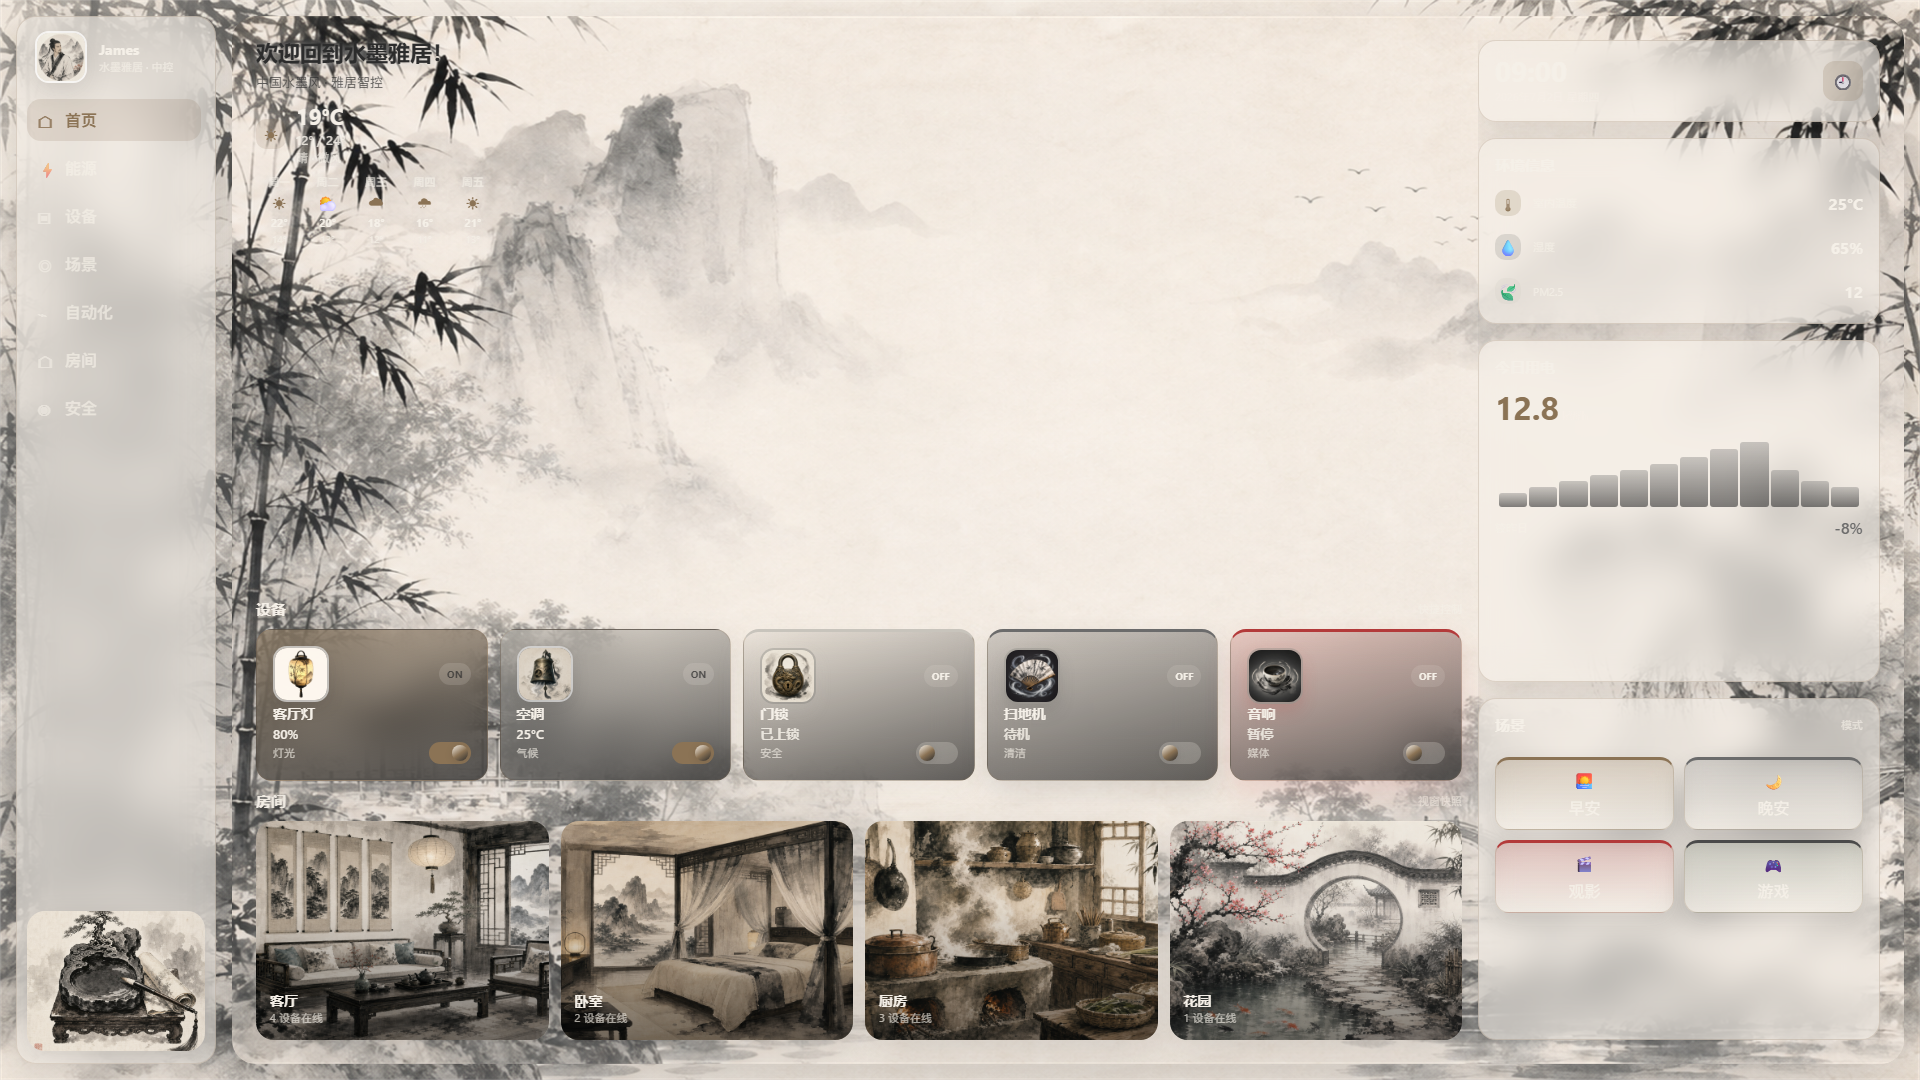
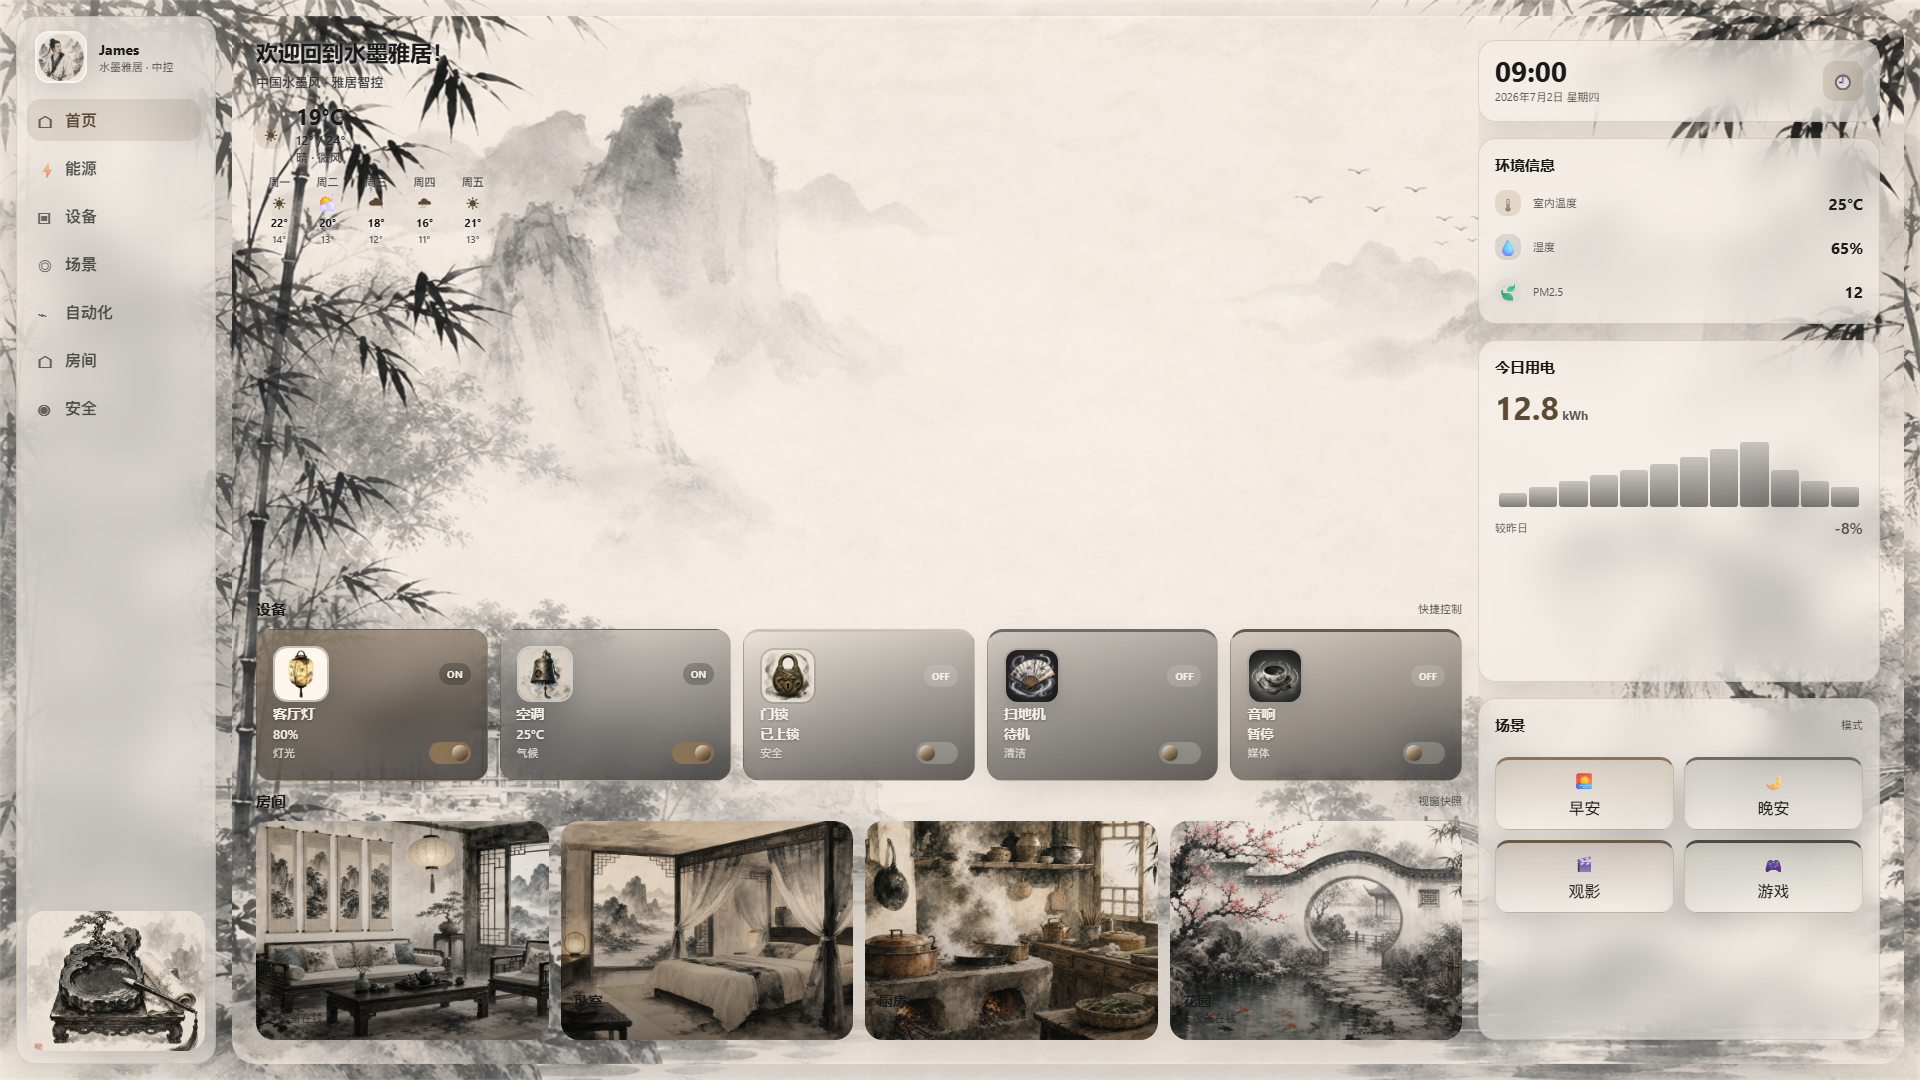
fix(skins): improve ink wash text contrast and remove red card accent

diff --git a/skins-pro/chinese-ink-wash-painting/theme.css b/skins-pro/chinese-ink-wash-painting/theme.css
@@ -14,7 +14,7 @@
   --sp-device-bg:rgba(26,26,26,.55);
   --sp-scene-morning:rgba(139,115,85,.26);
   --sp-scene-night:rgba(107,107,107,.24);
-  --sp-scene-movie:rgba(179,58,58,.20);
+  --sp-scene-movie:rgba(107,90,72,.22);
   --sp-scene-game:rgba(92,107,88,.22);
   --sp-item-icon-bg:rgba(26,26,26,.68);
   --sp-time-icon-bg:rgba(139,115,85,.20);
@@ -35,12 +35,17 @@
   --sp-stage-overlay:linear-gradient(180deg,rgba(245,240,232,.08),rgba(245,240,232,.22));
   --sp-room-overlay:linear-gradient(180deg,transparent 40%,rgba(0,0,0,.45));
   --sp-bar-gradient: linear-gradient(180deg, rgba(107,107,107,.45), rgba(44,44,44,.82));
-  --sp-text-main: #F5F0E8; --sp-text-muted:rgba(245,240,232,.68); --sp-text-muted-dim:rgba(245,240,232,.52);
-  --sp-text-muted-bright:rgba(245,240,232,.86); --sp-text-alt: #8B7355; --sp-text-dark:#2C2C2C;
-  --sp-text-dark-dim:rgba(44,44,44,.72); --sp-text-dark-alpha:rgba(245,240,232,.14);
+  --sp-text-main: #1A1A1A;
+  --sp-text-muted: rgba(26,26,26,.72);
+  --sp-text-muted-dim: rgba(26,26,26,.58);
+  --sp-text-muted-bright: rgba(26,26,26,.88);
+  --sp-text-alt: #5C4A32;
+  --sp-text-dark: #1A1A1A;
+  --sp-text-dark-dim: rgba(26,26,26,.72);
+  --sp-text-dark-alpha: rgba(26,26,26,.10);
   --sp-text-dropdown:#2C2C2C; --sp-text-down:#6B6B6B;
   --sp-accent-green:#8B7355; --sp-accent-blue:#6B6B6B; --sp-accent-purple:#4A4A4A;
-  --sp-accent-red:#B33A3A; --sp-accent-brown:#6B5A48;
+  --sp-accent-red:#6B5A48; --sp-accent-brown:#6B5A48;
   --sp-accent-green-alpha:rgba(139,115,85,.16); --sp-accent-green-active:rgba(139,115,85,.24);
   --sp-accent-green-border:rgba(139,115,85,.38);
   --sp-border-width:1px; --sp-border-light:rgba(255,255,255,.55);
@@ -66,11 +71,12 @@
   --sp-space-xs:8px; --sp-space-2xs:6px; --sp-space-3xs:4px;
   --sp-device-yellow:rgba(139,115,85,.42); --sp-device-green:rgba(92,107,88,.40);
   --sp-device-blue:rgba(200,196,188,.34); --sp-device-purple:rgba(74,74,74,.38);
-  --sp-device-red:rgba(179,58,58,.34); --sp-device-brown:rgba(26,26,26,.62);
+  --sp-device-red:rgba(107,90,72,.36); --sp-device-brown:rgba(26,26,26,.62);
   --sp-device-unavailable:rgba(107,107,107,.72);
   --sp-scene-morning:rgba(139,115,85,.26); --sp-scene-night:rgba(107,107,107,.24);
-  --sp-scene-movie:rgba(179,58,58,.20); --sp-scene-game:rgba(92,107,88,.22);
-  --sp-env-temp-bg:rgba(139,115,85,.18); --sp-env-temp: #8B7355;
+  --sp-scene-movie:rgba(107,90,72,.22);
+  --sp-scene-game:rgba(92,107,88,.22);
+  --sp-env-temp-bg:rgba(139,115,85,.18); --sp-env-temp: #5C4A32;
   --sp-env-hum-bg:rgba(107,107,107,.18); --sp-env-hum:#9A9A9A;
   --sp-env-pm-bg:rgba(200,196,188,.16); --sp-env-pm:#C8C4BC;
   --sp-warning:#B8860B; --sp-error:#B33A3A;
@@ -92,13 +98,13 @@ h2 { font-size:var(--sp-font-md); font-weight:700; color:var(--sp-text-main); }
 h3 { font-size:var(--sp-font-sm); font-weight:700; color:var(--sp-text-main); }
 button { font:inherit; }
 .muted { color:var(--sp-text-muted); font-size:var(--sp-font-3xs); }
-.sidebar { background:var(--sp-glass-bg); backdrop-filter:blur(20px); -webkit-backdrop-filter:blur(20px); border-radius:var(--sp-radius-xl); border:var(--sp-border-width) solid var(--sp-border-glass); padding:var(--sp-space-md) var(--sp-space-sm); display:flex; flex-direction:column; min-height:0; height:100%; overflow:hidden; box-shadow:var(--sp-shadow-md); }
+.sidebar { background:var(--sp-glass-bg); backdrop-filter:blur(20px); -webkit-backdrop-filter:blur(20px); border-radius:var(--sp-radius-xl); border:var(--sp-border-width) solid var(--sp-border-glass); padding:var(--sp-space-md) var(--sp-space-sm); display:flex; flex-direction:column; min-height:0; height:100%; overflow:hidden; box-shadow:var(--sp-shadow-md); color:var(--sp-text-main); }
 .profile { display:flex; align-items:center; gap:var(--sp-space-md); margin:2px 0 var(--sp-space-lg); padding:0 var(--sp-space-xs); }
 .profile-img,.sidebar-art img,.item-img,.room img { display:block; object-fit:cover; }
 .profile-img { width:52px; height:52px; border-radius:var(--sp-radius-icon); border:2px solid rgba(255,255,255,.70); box-shadow:var(--sp-shadow-sm); }
 .menu { display:grid; gap:var(--sp-space-2xs); min-height:0; overflow:auto; padding-right:var(--sp-space-3xs); }
 .nav-button { min-height:42px; border:0; border-radius:var(--sp-radius-sidebar); padding:0 var(--sp-space-sm); display:flex; align-items:center; gap:var(--sp-space-sm); color:var(--sp-text-muted); background:transparent; cursor:pointer; text-align:left; transition:all .2s ease; font-weight:600; }
-.nav-button.active,.nav-button:hover { color:var(--sp-accent-green); background:var(--sp-accent-green-alpha); }
+.nav-button.active,.nav-button:hover { color:#5C4A32; background:var(--sp-accent-green-alpha); }
 .nav-button ha-icon { width:20px; color:inherit; }
 .sidebar-art { margin-top:auto; min-height:100px; flex-shrink:0; border-radius:var(--sp-radius-lg); overflow:hidden; box-shadow:var(--sp-shadow-sm); }
 .sidebar-art img { width:100%; height:100%; }
@@ -139,7 +145,7 @@ button { font:inherit; }
 .device-on-green { background:linear-gradient(165deg, rgba(92,107,88,.48), rgba(44,44,44,.78)); color:var(--sp-text-primary); }
 .device-on-blue { background:linear-gradient(165deg, rgba(200,196,188,.40), rgba(44,44,44,.78)); color:var(--sp-text-primary); }
 .device-on-purple { background:linear-gradient(165deg, rgba(74,74,74,.46), rgba(26,26,26,.80)); color:var(--sp-text-primary); }
-.device-on-red { background:linear-gradient(165deg, rgba(179,58,58,.42), rgba(44,44,44,.78)); color:var(--sp-text-primary); }
+.device-on-red { background:linear-gradient(165deg, rgba(107,90,72,.46), rgba(44,44,44,.78)); color:var(--sp-text-primary); }
 .device-on-brown { background:linear-gradient(165deg, rgba(26,26,26,.50), rgba(26,26,26,.82)); color:var(--sp-text-primary); }
 .device-unavailable { background:var(--sp-device-unavailable); }
 .device-top,.control-row { display:flex; justify-content:space-between; align-items:center; gap:var(--sp-space-xs); }
@@ -200,10 +206,10 @@ button { font:inherit; }
 .energy-footer { display:flex; justify-content:space-between; align-items:center; margin-top:var(--sp-space-sm); color:var(--sp-text-muted-dim); }
 .down { color:var(--sp-text-down); font-weight:600; }
 .scene-grid { grid-template-columns:1fr 1fr; align-content:end; gap:var(--sp-space-sm); }
-.scene { min-height:78px; border:0; border-radius:var(--sp-radius-scene); color:var(--sp-text-primary); padding:var(--sp-space-md); background:var(--sp-glass-bg); text-align:center; cursor:pointer; box-shadow:var(--sp-shadow-scene); display:flex; flex-direction:column; align-items:center; justify-content:center; gap:var(--sp-space-2xs); backdrop-filter:blur(12px); -webkit-backdrop-filter:blur(12px); border:var(--sp-border-width) solid var(--sp-border-glass); border-top-width:3px; }
+.scene { min-height:78px; border:0; border-radius:var(--sp-radius-scene); color:var(--sp-text-main); padding:var(--sp-space-md); background:var(--sp-glass-bg); text-align:center; cursor:pointer; box-shadow:var(--sp-shadow-scene); display:flex; flex-direction:column; align-items:center; justify-content:center; gap:var(--sp-space-2xs); backdrop-filter:blur(12px); -webkit-backdrop-filter:blur(12px); border:var(--sp-border-width) solid var(--sp-border-glass); border-top-width:3px; }
 .scene.morning { border-top-color:var(--sp-accent); background:linear-gradient(180deg,var(--sp-scene-morning),var(--sp-glass-bg)); }
 .scene.night { border-top-color:var(--sp-accent-blue, var(--sp-accent)); background:linear-gradient(180deg,var(--sp-scene-night),var(--sp-glass-bg)); }
-.scene.movie { border-top-color:var(--sp-accent-red, var(--sp-accent)); background:linear-gradient(180deg,var(--sp-scene-movie),var(--sp-glass-bg)); }
+.scene.movie { border-top-color:var(--sp-accent-brown, var(--sp-accent)); background:linear-gradient(180deg,var(--sp-scene-movie),var(--sp-glass-bg)); }
 .scene.game { border-top-color:var(--sp-accent-purple, var(--sp-accent)); background:linear-gradient(180deg,var(--sp-scene-game),var(--sp-glass-bg)); }
 .panel-scenes .scene { min-height:64px; padding:var(--sp-space-sm); }
 .mc-app[data-view="devices"] .welcome,
@@ -269,26 +275,35 @@ button { font:inherit; }
   backdrop-filter:blur(18px) saturate(120%);
   -webkit-backdrop-filter:blur(18px) saturate(120%);
 }
-.glass-card,.time-card { color:var(--sp-text-primary); }
+.glass-card,.time-card { color:var(--sp-text-main); }
 
 .scene ha-icon,.devices-page-grid .item-icon ha-icon { color:var(--sp-accent); font-size:28px; }
 .scene.morning ha-icon { color:var(--sp-accent); }
 .scene.night ha-icon { color:var(--sp-accent-blue, var(--sp-accent)); }
-.scene.movie ha-icon { color:var(--sp-accent-red, var(--sp-accent)); }
+.scene.movie ha-icon { color:var(--sp-accent-brown, var(--sp-accent)); }
 .scene.game ha-icon { color:var(--sp-accent-purple, var(--sp-accent)); }
 .devices-page-grid .device .item-icon { border:2px solid rgba(139,115,85,.28); box-shadow:0 8px 18px rgba(26,26,26,.18); }
 .device .item-img { background:rgba(26,26,26,.22); object-fit:cover; }
 .scene .item-img { width:44px; height:44px; border-radius:var(--sp-radius-icon); margin:0 auto; object-fit:cover; }
 .device,.camera-card { color:var(--sp-text-primary); border-color:var(--sp-border-glass); }
-.device .muted,.camera-card .muted { color:var(--sp-text-muted); }
-.welcome h1,.welcome .quote,.weather-current-temp,.weather-current-hl,.weather-current-cond,.forecast-high,.forecast-low,.forecast-weekday { color:var(--sp-text-stage,var(--sp-text-main)); text-shadow:0 1px 6px rgba(255,255,255,.55),0 2px 10px rgba(0,0,0,.18); }
-.welcome .quote,.weather-current-cond,.forecast-weekday,.forecast-low { color:var(--sp-text-stage-muted,var(--sp-text-muted)); }
-.env-value,.energy-value,.maintenance-value { color:var(--sp-text-primary); }
-.chip { color:var(--sp-text-primary); }
+.device .device-name,.device .state-word,.device-on-yellow,.device-on-green,.device-on-blue,.device-on-purple,.device-on-red,.device-on-brown { color:#F5F0E8; text-shadow:0 1px 3px rgba(0,0,0,.40); }
+.device .muted,.camera-card .muted { color:rgba(245,240,232,.86); text-shadow:0 1px 2px rgba(0,0,0,.32); }
+.device .status,.device .count-tag { background:rgba(0,0,0,.22); color:#F5F0E8; }
+.welcome h1,.welcome .quote,.weather-current-temp,.weather-current-hl,.weather-current-cond,.forecast-high,.forecast-low,.forecast-weekday { color:#1A1A1A; text-shadow:0 1px 4px rgba(255,255,255,.85),0 2px 12px rgba(255,255,255,.55); font-weight:700; }
+.welcome .quote,.weather-current-cond,.forecast-weekday,.forecast-low { color:rgba(26,26,26,.78); font-weight:600; text-shadow:0 1px 4px rgba(255,255,255,.75); }
+.env-value,.energy-value,.maintenance-value,.time-main,.time-sub,.maintenance-item,.section-title h2,.section-title .muted { color:var(--sp-text-main); }
+.env-value,.energy-value,.maintenance-value,.time-main { font-weight:700; }
+.time-sub,.maintenance-item,.section-title .muted { color:var(--sp-text-muted); }
+.chip { color:var(--sp-text-main); }
+.panel-scenes .scene,.scene { color:var(--sp-text-main); }
+.scene .muted { color:var(--sp-text-muted); }
 .dot.temp { color:var(--sp-accent); }
 .dot.hum { color:var(--sp-accent-blue); }
-.dot.pm { color:var(--sp-env-pm); }
-.energy-value { color:var(--sp-accent); }
+.dot.pm { color:#5C4A32; }
+.energy-value { color:#5C4A32; }
+.energy-value small,.energy-footer,.down { color:var(--sp-text-muted); }
+.profile .meta h3,.profile .meta .muted { color:var(--sp-text-main); }
+.profile .meta .muted { color:var(--sp-text-muted); }
 
 .devices > .device.device-off:nth-child(6n+1), .devices-page-grid > .device.device-off:nth-child(6n+1), .device.tone-yellow.device-off {
   background:linear-gradient(165deg, rgba(139,115,85,.24), rgba(26,26,26,.68));
@@ -296,9 +311,9 @@ button { font:inherit; }
   color:var(--sp-text-primary);
   box-shadow:0 12px 28px rgba(139,115,85,.16);
 }
-.devices > .device.device-off:nth-child(6n+1) .muted, .devices-page-grid > .device.device-off:nth-child(6n+1) .muted, .device.tone-yellow.device-off .muted { color:var(--sp-text-muted); }
-.devices > .device.device-off:nth-child(6n+1) .state-word, .device.tone-yellow.device-off .state-word { color:var(--sp-text-muted-bright,var(--sp-text-primary)); font-weight:700; }
-.devices > .device.device-off:nth-child(6n+1) .status, .devices-page-grid > .device.device-off:nth-child(6n+1) .status, .device.tone-yellow.device-off .status { background:rgba(245,240,232,.12); color:var(--sp-text-primary); }
+.devices > .device.device-off:nth-child(6n+1) .muted, .devices-page-grid > .device.device-off:nth-child(6n+1) .muted, .device.tone-yellow.device-off .muted { color:rgba(245,240,232,.84); }
+.devices > .device.device-off:nth-child(6n+1) .state-word, .device.tone-yellow.device-off .state-word { color:#F5F0E8; font-weight:700; text-shadow:0 1px 3px rgba(0,0,0,.35); }
+.devices > .device.device-off:nth-child(6n+1) .status, .devices-page-grid > .device.device-off:nth-child(6n+1) .status, .device.tone-yellow.device-off .status { background:rgba(245,240,232,.16); color:#F5F0E8; }
 .devices > .device.device-off:nth-child(6n+1) .item-img, .devices-page-grid > .device.device-off:nth-child(6n+1) .item-img, .device.tone-yellow.device-off .item-img { box-shadow:0 8px 16px rgba(139,115,85,.22); border:2px solid rgba(245,240,232,.16); }
 
 .devices > .device.device-off:nth-child(6n+2), .devices-page-grid > .device.device-off:nth-child(6n+2), .device.tone-green.device-off {
@@ -307,9 +322,9 @@ button { font:inherit; }
   color:var(--sp-text-primary);
   box-shadow:0 12px 28px rgba(92,107,88,.14);
 }
-.devices > .device.device-off:nth-child(6n+2) .muted, .devices-page-grid > .device.device-off:nth-child(6n+2) .muted, .device.tone-green.device-off .muted { color:var(--sp-text-muted); }
-.devices > .device.device-off:nth-child(6n+2) .state-word, .device.tone-green.device-off .state-word { color:var(--sp-text-muted-bright,var(--sp-text-primary)); font-weight:700; }
-.devices > .device.device-off:nth-child(6n+2) .status, .devices-page-grid > .device.device-off:nth-child(6n+2) .status, .device.tone-green.device-off .status { background:rgba(245,240,232,.12); color:var(--sp-text-primary); }
+.devices > .device.device-off:nth-child(6n+2) .muted, .devices-page-grid > .device.device-off:nth-child(6n+2) .muted, .device.tone-green.device-off .muted { color:rgba(245,240,232,.84); }
+.devices > .device.device-off:nth-child(6n+2) .state-word, .device.tone-green.device-off .state-word { color:#F5F0E8; font-weight:700; text-shadow:0 1px 3px rgba(0,0,0,.35); }
+.devices > .device.device-off:nth-child(6n+2) .status, .devices-page-grid > .device.device-off:nth-child(6n+2) .status, .device.tone-green.device-off .status { background:rgba(245,240,232,.16); color:#F5F0E8; }
 .devices > .device.device-off:nth-child(6n+2) .item-img, .devices-page-grid > .device.device-off:nth-child(6n+2) .item-img, .device.tone-green.device-off .item-img { box-shadow:0 8px 16px rgba(92,107,88,.20); border:2px solid rgba(245,240,232,.16); }
 
 .devices > .device.device-off:nth-child(6n+3), .devices-page-grid > .device.device-off:nth-child(6n+3), .device.tone-blue.device-off {
@@ -318,9 +333,9 @@ button { font:inherit; }
   color:var(--sp-text-primary);
   box-shadow:0 12px 28px rgba(200,196,188,.12);
 }
-.devices > .device.device-off:nth-child(6n+3) .muted, .devices-page-grid > .device.device-off:nth-child(6n+3) .muted, .device.tone-blue.device-off .muted { color:var(--sp-text-muted); }
-.devices > .device.device-off:nth-child(6n+3) .state-word, .device.tone-blue.device-off .state-word { color:var(--sp-text-muted-bright,var(--sp-text-primary)); font-weight:700; }
-.devices > .device.device-off:nth-child(6n+3) .status, .devices-page-grid > .device.device-off:nth-child(6n+3) .status, .device.tone-blue.device-off .status { background:rgba(245,240,232,.12); color:var(--sp-text-primary); }
+.devices > .device.device-off:nth-child(6n+3) .muted, .devices-page-grid > .device.device-off:nth-child(6n+3) .muted, .device.tone-blue.device-off .muted { color:rgba(245,240,232,.84); }
+.devices > .device.device-off:nth-child(6n+3) .state-word, .device.tone-blue.device-off .state-word { color:#F5F0E8; font-weight:700; text-shadow:0 1px 3px rgba(0,0,0,.35); }
+.devices > .device.device-off:nth-child(6n+3) .status, .devices-page-grid > .device.device-off:nth-child(6n+3) .status, .device.tone-blue.device-off .status { background:rgba(245,240,232,.16); color:#F5F0E8; }
 .devices > .device.device-off:nth-child(6n+3) .item-img, .devices-page-grid > .device.device-off:nth-child(6n+3) .item-img, .device.tone-blue.device-off .item-img { box-shadow:0 8px 16px rgba(200,196,188,.18); border:2px solid rgba(245,240,232,.16); }
 
 .devices > .device.device-off:nth-child(6n+4), .devices-page-grid > .device.device-off:nth-child(6n+4), .device.tone-purple.device-off {
@@ -329,21 +344,21 @@ button { font:inherit; }
   color:var(--sp-text-primary);
   box-shadow:0 12px 28px rgba(74,74,74,.14);
 }
-.devices > .device.device-off:nth-child(6n+4) .muted, .devices-page-grid > .device.device-off:nth-child(6n+4) .muted, .device.tone-purple.device-off .muted { color:var(--sp-text-muted); }
-.devices > .device.device-off:nth-child(6n+4) .state-word, .device.tone-purple.device-off .state-word { color:var(--sp-text-muted-bright,var(--sp-text-primary)); font-weight:700; }
-.devices > .device.device-off:nth-child(6n+4) .status, .devices-page-grid > .device.device-off:nth-child(6n+4) .status, .device.tone-purple.device-off .status { background:rgba(245,240,232,.12); color:var(--sp-text-primary); }
+.devices > .device.device-off:nth-child(6n+4) .muted, .devices-page-grid > .device.device-off:nth-child(6n+4) .muted, .device.tone-purple.device-off .muted { color:rgba(245,240,232,.84); }
+.devices > .device.device-off:nth-child(6n+4) .state-word, .device.tone-purple.device-off .state-word { color:#F5F0E8; font-weight:700; text-shadow:0 1px 3px rgba(0,0,0,.35); }
+.devices > .device.device-off:nth-child(6n+4) .status, .devices-page-grid > .device.device-off:nth-child(6n+4) .status, .device.tone-purple.device-off .status { background:rgba(245,240,232,.16); color:#F5F0E8; }
 .devices > .device.device-off:nth-child(6n+4) .item-img, .devices-page-grid > .device.device-off:nth-child(6n+4) .item-img, .device.tone-purple.device-off .item-img { box-shadow:0 8px 16px rgba(74,74,74,.18); border:2px solid rgba(245,240,232,.16); }
 
 .devices > .device.device-off:nth-child(6n+5), .devices-page-grid > .device.device-off:nth-child(6n+5), .device.tone-red.device-off {
-  background:linear-gradient(165deg, rgba(179,58,58,.20), rgba(26,26,26,.68));
-  border-top:3px solid #B33A3A;
+  background:linear-gradient(165deg, rgba(107,90,72,.22), rgba(26,26,26,.68));
+  border-top:3px solid #6B5A48;
   color:var(--sp-text-primary);
-  box-shadow:0 12px 28px rgba(179,58,58,.14);
+  box-shadow:0 12px 28px rgba(107,90,72,.14);
 }
-.devices > .device.device-off:nth-child(6n+5) .muted, .devices-page-grid > .device.device-off:nth-child(6n+5) .muted, .device.tone-red.device-off .muted { color:var(--sp-text-muted); }
-.devices > .device.device-off:nth-child(6n+5) .state-word, .device.tone-red.device-off .state-word { color:var(--sp-text-muted-bright,var(--sp-text-primary)); font-weight:700; }
-.devices > .device.device-off:nth-child(6n+5) .status, .devices-page-grid > .device.device-off:nth-child(6n+5) .status, .device.tone-red.device-off .status { background:rgba(245,240,232,.12); color:var(--sp-text-primary); }
-.devices > .device.device-off:nth-child(6n+5) .item-img, .devices-page-grid > .device.device-off:nth-child(6n+5) .item-img, .device.tone-red.device-off .item-img { box-shadow:0 8px 16px rgba(179,58,58,.18); border:2px solid rgba(245,240,232,.16); }
+.devices > .device.device-off:nth-child(6n+5) .muted, .devices-page-grid > .device.device-off:nth-child(6n+5) .muted, .device.tone-red.device-off .muted { color:rgba(245,240,232,.84); }
+.devices > .device.device-off:nth-child(6n+5) .state-word, .device.tone-red.device-off .state-word { color:#F5F0E8; font-weight:700; text-shadow:0 1px 3px rgba(0,0,0,.35); }
+.devices > .device.device-off:nth-child(6n+5) .status, .devices-page-grid > .device.device-off:nth-child(6n+5) .status, .device.tone-red.device-off .status { background:rgba(245,240,232,.16); color:#F5F0E8; }
+.devices > .device.device-off:nth-child(6n+5) .item-img, .devices-page-grid > .device.device-off:nth-child(6n+5) .item-img, .device.tone-red.device-off .item-img { box-shadow:0 8px 16px rgba(107,90,72,.18); border:2px solid rgba(245,240,232,.18); }
 
 .devices > .device.device-off:nth-child(6n+6), .devices-page-grid > .device.device-off:nth-child(6n+6), .device.tone-brown.device-off {
   background:linear-gradient(165deg, rgba(26,26,26,.24), rgba(26,26,26,.72));
@@ -351,9 +366,9 @@ button { font:inherit; }
   color:var(--sp-text-primary);
   box-shadow:0 12px 28px rgba(26,26,26,.16);
 }
-.devices > .device.device-off:nth-child(6n+6) .muted, .devices-page-grid > .device.device-off:nth-child(6n+6) .muted, .device.tone-brown.device-off .muted { color:var(--sp-text-muted); }
-.devices > .device.device-off:nth-child(6n+6) .state-word, .device.tone-brown.device-off .state-word { color:var(--sp-text-muted-bright,var(--sp-text-primary)); font-weight:700; }
-.devices > .device.device-off:nth-child(6n+6) .status, .devices-page-grid > .device.device-off:nth-child(6n+6) .status, .device.tone-brown.device-off .status { background:rgba(245,240,232,.12); color:var(--sp-text-primary); }
+.devices > .device.device-off:nth-child(6n+6) .muted, .devices-page-grid > .device.device-off:nth-child(6n+6) .muted, .device.tone-brown.device-off .muted { color:rgba(245,240,232,.84); }
+.devices > .device.device-off:nth-child(6n+6) .state-word, .device.tone-brown.device-off .state-word { color:#F5F0E8; font-weight:700; text-shadow:0 1px 3px rgba(0,0,0,.35); }
+.devices > .device.device-off:nth-child(6n+6) .status, .devices-page-grid > .device.device-off:nth-child(6n+6) .status, .device.tone-brown.device-off .status { background:rgba(245,240,232,.16); color:#F5F0E8; }
 .devices > .device.device-off:nth-child(6n+6) .item-img, .devices-page-grid > .device.device-off:nth-child(6n+6) .item-img, .device.tone-brown.device-off .item-img { box-shadow:0 8px 16px rgba(26,26,26,.20); border:2px solid rgba(245,240,232,.16); }
 
 